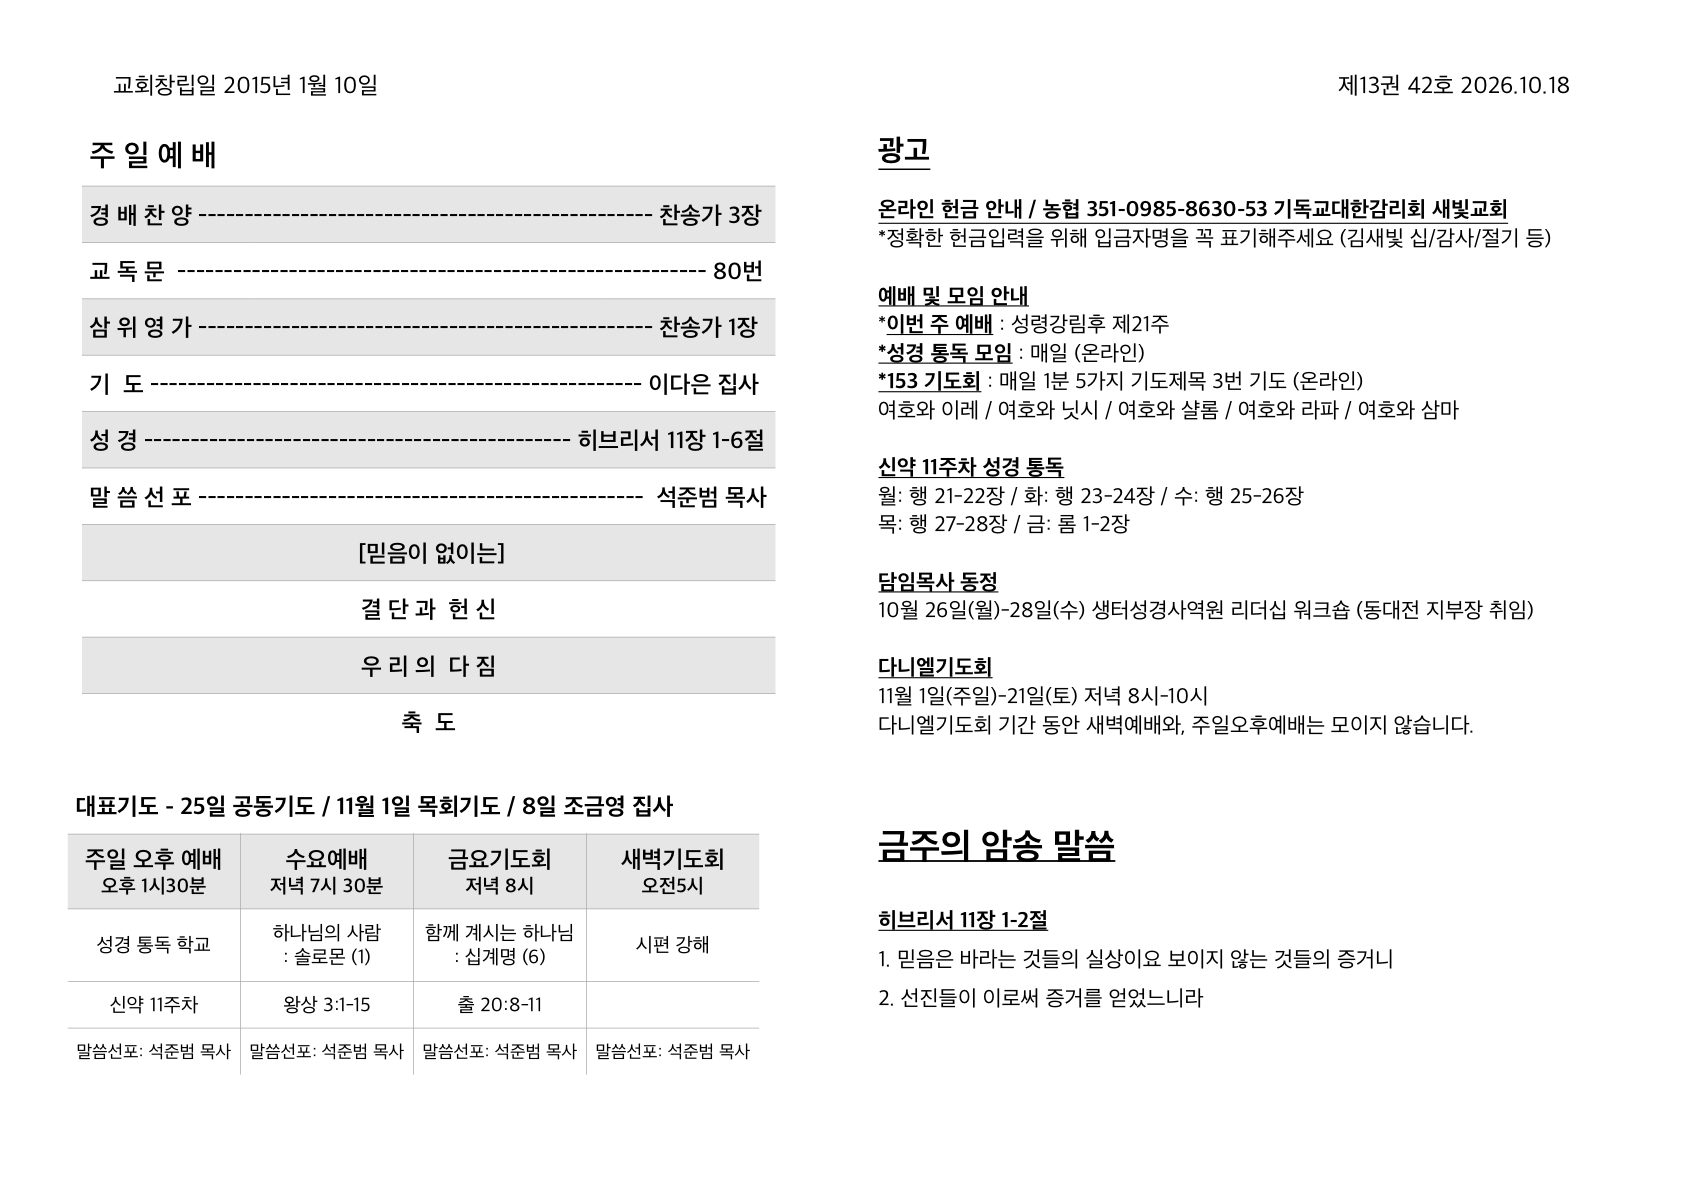
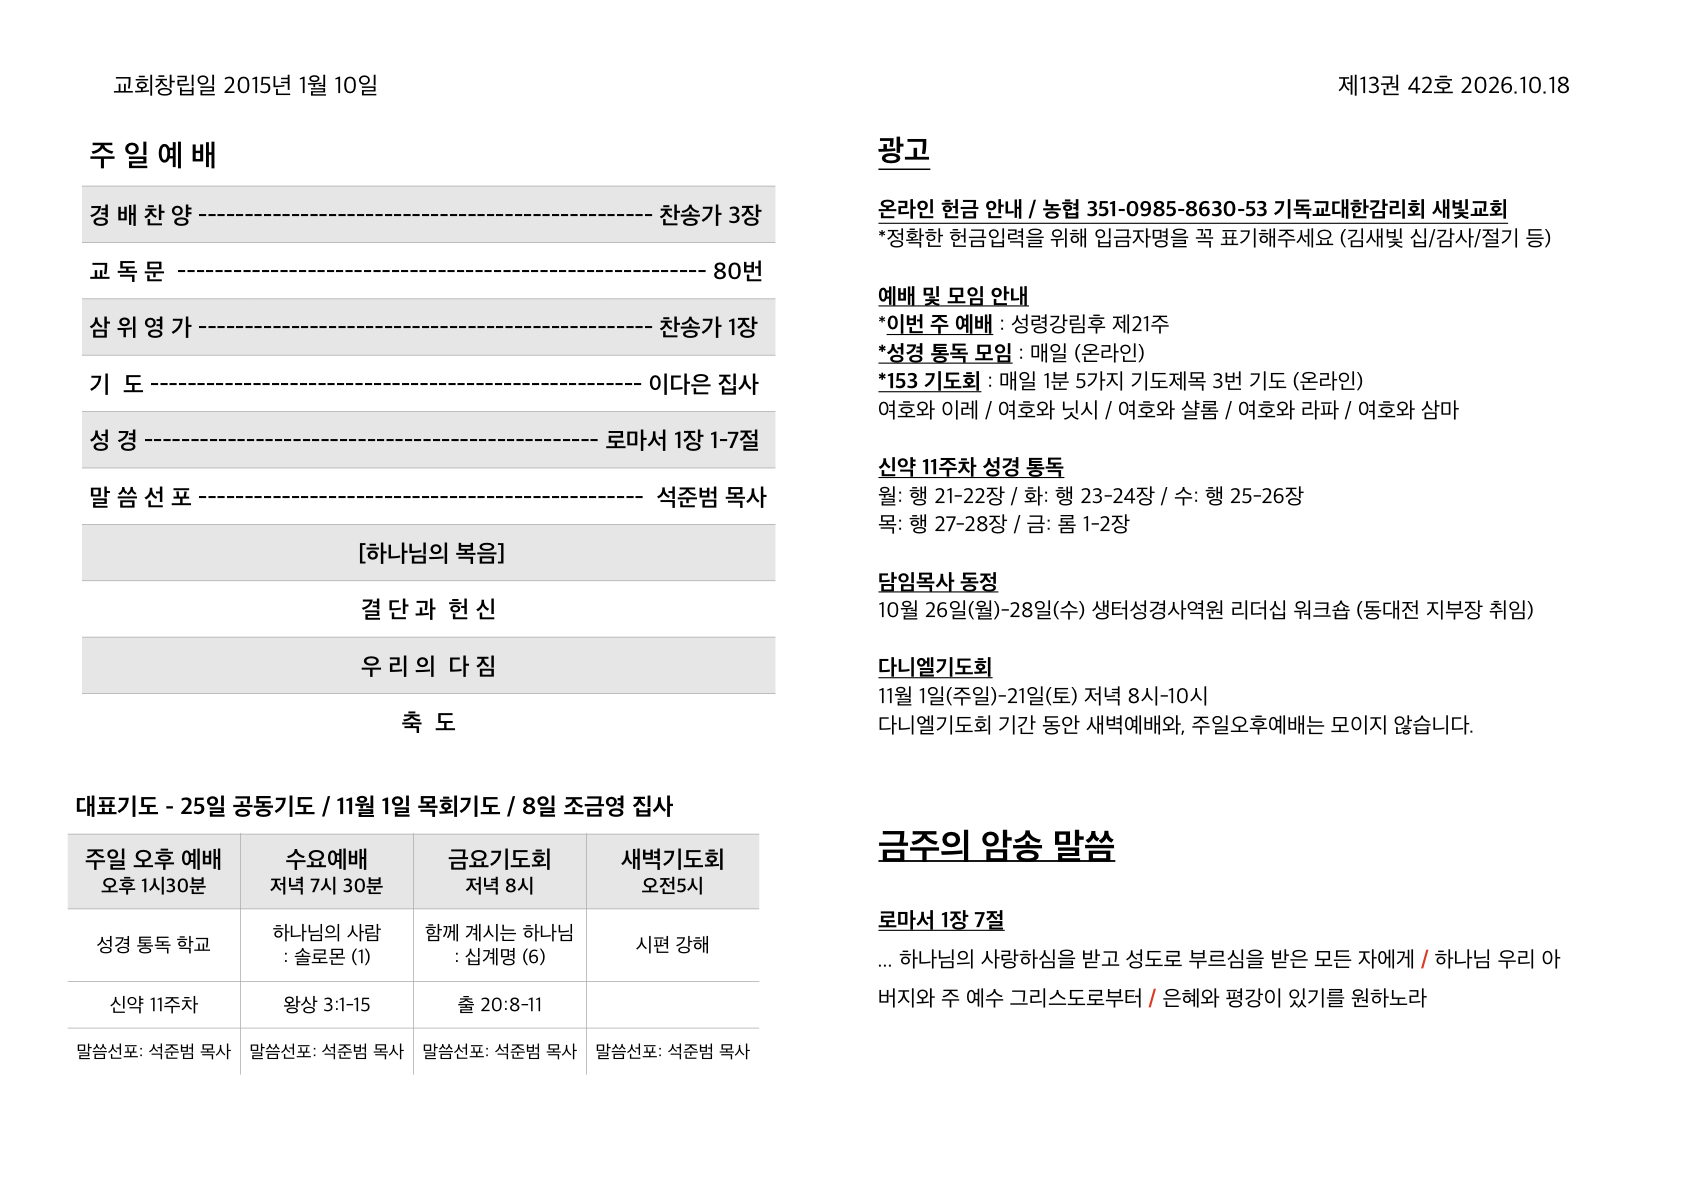
Correct Oct 18 bulletin sermon and images

diff --git a/bulletins/2026-10-18.html b/bulletins/2026-10-18.html
@@ -1,11 +1,11 @@
 <!doctype html><html lang="ko"><head><meta charset="UTF-8"><meta name="viewport" content="width=device-width,initial-scale=1,viewport-fit=cover"><meta name="theme-color" content="#16324F"><title>2026년 10월 18일 주보 | 새빛교회</title><style>:root{--n:#16324f;--i:#1f2937;--m:#64748b;--l:#e5e7eb;--s:#f7f4ee;--g:#c7a56a}*{box-sizing:border-box}body{margin:0;font-family:-apple-system,BlinkMacSystemFont,"Segoe UI","Noto Sans KR",Arial,sans-serif;color:var(--i);background:#f7f8fa;line-height:1.65}.wrap{width:min(920px,calc(100% - 28px));margin:auto}.top{background:var(--n);color:#fff;padding:18px 0}.row{display:flex;justify-content:space-between;gap:12px;align-items:center}.top a{color:#fff;text-decoration:none;font-weight:700}.hero{background:#fff;border-bottom:1px solid var(--l);padding:34px 0 28px}.eyebrow{font-size:12px;font-weight:800;color:var(--g);letter-spacing:.12em}.hero h1{font-size:clamp(30px,7vw,46px);margin:8px 0 6px}.meta{color:var(--m)}.card{background:#fff;border:1px solid var(--l);border-radius:18px;padding:22px;margin:16px 0}.card h2{margin:0 0 14px;font-size:22px;color:var(--n)}.sermon{background:linear-gradient(135deg,#16324f,#234e70);color:#fff}.sermon h2{color:#fff}.sermon strong{font-size:27px;display:block}.pill{display:inline-block;border-radius:999px;background:#eef3f5;color:var(--n);font-weight:800;padding:5px 9px;font-size:12px}.order{padding-left:20px}.order li{margin:7px 0}.notice{padding:12px 14px;border-radius:12px;background:var(--s);margin:10px 0}.schedule{width:100%;border-collapse:collapse}.schedule th,.schedule td{border:1px solid var(--l);padding:10px;text-align:left}.schedule th{background:#f2f4f6}.memory{border-left:4px solid var(--g);padding:14px 16px;background:#fffdf7;border-radius:10px}.pages{display:grid;gap:14px}.pages img{display:block;width:100%;height:auto;border-radius:12px;border:1px solid var(--l)}.actions{display:flex;gap:10px;flex-wrap:wrap;margin-top:18px}.btn{display:inline-block;padding:11px 15px;border-radius:12px;text-decoration:none;font-weight:800}.primary{background:var(--n);color:#fff}.light{background:#eef2f7;color:var(--n)}.footer{padding:36px 0 50px;color:var(--m);font-size:14px}@media(max-width:700px){.card{padding:18px}.row{align-items:flex-start;flex-direction:column}.schedule{font-size:14px}}</style></head><body>
 <header class="top"><div class="wrap row"><a href="../index.html">✝ 새빛교회</a><div><a href="index.html">주보 게시판</a> · <a href="../bible-reading/index.html">성경통독</a></div></div></header>
 <section class="hero"><div class="wrap"><div class="eyebrow">WEEKLY BULLETIN · 제13권 42호</div><h1>2026년 10월 18일 주보</h1><div class="meta">성령강림후 제21주 · 교회창립일 2015년 1월 10일</div></div></section><main class="wrap">
-<section class="card sermon"><span class="pill">오늘의 말씀</span><h2>주일 설교</h2><strong>믿음이 없이는</strong><p>히브리서 11장 1–6절 · 말씀선포 석준범 목사</p></section>
-<section class="card"><h2>주일예배 순서</h2><ol class="order"><li>경배찬양 — 찬송가 3장</li><li>교독문 — 80번</li><li>삼위영가 — 찬송가 1장</li><li>기도 — 이다은 집사</li><li>성경 — 히브리서 11장 1–6절</li><li>말씀 선포 — 석준범 목사, 「믿음이 없이는」</li><li>결단과 헌신</li><li>우리의 다짐</li><li>축도</li></ol></section>
-<section class="card"><h2>광고 및 교회소식</h2><div class="notice"><strong>온라인 헌금 안내</strong><br>자세한 내용은 아래 주보 원본을 확인해 주세요.</div><div class="notice"><strong>예배 및 모임 안내</strong><br>이번 주 예배: 성령강림후 제21주<br>성경 통독 모임: 매일(온라인)<br>153 기도회: 매일 1분, 5가지 기도제목을 3번 기도(온라인)</div><div class="notice"><strong>담임목사 동정</strong><br>10월 26일(월)–28일(수) 생터성경사역원 리더십 워크숍(동대전 지부장 취임)</div><div class="notice"><strong>다니엘기도회</strong><br>11월 1일(주일)–21일(토) 저녁 8시–10시<br>기간 동안 새벽예배와 주일오후예배는 모이지 않습니다.</div><div class="notice"><strong>행사 안내</strong><br>10월 17일(토) 대전중앙지방 여선교회 계삭회<br>10월 24일(토) 대전중앙지방 평신도 국내성지순례</div></section>
+<section class="card sermon"><span class="pill">오늘의 말씀</span><h2>주일 설교</h2><strong>하나님의 복음</strong><p>로마서 1장 1–7절 · 말씀선포 석준범 목사</p></section>
+<section class="card"><h2>주일예배 순서</h2><ol class="order"><li>경배찬양 — 찬송가 3장</li><li>교독문 — 80번</li><li>삼위영가 — 찬송가 1장</li><li>기도 — 이다은 집사</li><li>성경 — 로마서 1장 1–7절</li><li>말씀 선포 — 석준범 목사, 「하나님의 복음」</li><li>결단과 헌신</li><li>우리의 다짐</li><li>축도</li></ol></section>
+<section class="card"><h2>광고 및 교회소식</h2><div class="notice"><strong>온라인 헌금 안내</strong><br>농협 351-0985-8630-53 기독교대한감리회 새빛교회<br><small>정확한 헌금입력을 위해 입금자명을 꼭 표기해주세요. 예: 김새빛 십/감사/절기 등</small></div><div class="notice"><strong>예배 및 모임 안내</strong><br>이번 주 예배: 성령강림후 제21주<br>성경 통독 모임: 매일(온라인)<br>153 기도회: 매일 1분, 5가지 기도제목을 3번 기도(온라인)</div><div class="notice"><strong>담임목사 동정</strong><br>10월 26일(월)–28일(수) 생터성경사역원 리더십 워크숍(동대전 지부장 취임)</div><div class="notice"><strong>다니엘기도회</strong><br>11월 1일(주일)–21일(토) 저녁 8시–10시<br>기간 동안 새벽예배와 주일오후예배는 모이지 않습니다.</div><div class="notice"><strong>행사 안내</strong><br>10월 17일(토) 대전중앙지방 여선교회 계삭회<br>10월 24일(토) 대전중앙지방 평신도 국내성지순례</div></section>
 <section class="card"><h2>신약 11주차 성경 통독</h2><table class="schedule"><tr><th>월</th><td>사도행전 21–22장</td></tr><tr><th>화</th><td>사도행전 23–24장</td></tr><tr><th>수</th><td>사도행전 25–26장</td></tr><tr><th>목</th><td>사도행전 27–28장</td></tr><tr><th>금</th><td>로마서 1–2장</td></tr></table><div class="actions"><a class="btn primary" href="../bible-reading/new-testament-week11.html">신약 11주차 통독 자료 보기</a></div></section>
-<section class="card"><h2>금주의 암송 말씀</h2><div class="memory"><strong>히브리서 11장 1–2절</strong><p>1. 믿음은 바라는 것들의 실상이요 보이지 않는 것들의 증거니</p><p>2. 선진들이 이로써 증거를 얻었느니라</p></div></section>
+<section class="card"><h2>금주의 암송 말씀</h2><div class="memory"><strong>로마서 1장 7절</strong><p>하나님의 사랑하심을 받고 성도로 부르심을 받은 모든 자에게 하나님 우리 아버지와 주 예수 그리스도로부터 은혜와 평강이 있기를 원하노라</p></div></section>
 <section class="card"><h2>예배 및 대표기도 안내</h2><p>대표기도 · 25일 공동기도 / 11월 1일 목회기도 / 8일 조금영 집사</p><table class="schedule"><tr><th>예배</th><th>시간</th><th>말씀</th></tr><tr><td>주일 오후 예배</td><td>오후 1시 30분</td><td>성경 통독 학교 · 신약 11주차</td></tr><tr><td>수요예배</td><td>저녁 7시 30분</td><td>하나님의 사람: 솔로몬 (1) · 왕상 3:1–15</td></tr><tr><td>금요기도회</td><td>저녁 8시</td><td>함께 계시는 하나님: 십계명 (6) · 출 20:8–11</td></tr><tr><td>새벽기도회</td><td>오전 5시</td><td>시편 강해 · 월요일과 토요일은 모이지 않습니다</td></tr></table></section>
 <section class="card"><h2>주보 원본 보기</h2><div class="pages"><a href="../assets/bulletin-2026-10-18-p1.jpg"><img src="../assets/bulletin-2026-10-18-p1.jpg" alt="2026년 10월 18일 주보 1면"></a><a href="../assets/bulletin-2026-10-18-p2.jpg"><img src="../assets/bulletin-2026-10-18-p2.jpg" alt="2026년 10월 18일 주보 2면"></a></div></section>
 <div class="actions"><a class="btn light" href="index.html">← 주보 목록</a><a class="btn light" href="../index.html">교회 홈</a></div></main><footer class="footer"><div class="wrap">기독교대한감리회 새빛교회 · 대전광역시 중구 평촌로 112</div></footer></body></html>

diff --git a/bulletins/index.html b/bulletins/index.html
@@ -169,8 +169,8 @@
         ><span class="badge">최신 주보</span
         ><time>2026년 10월 18일 주일 · 제13권 42호</time>
         <h2>2026년 10월 18일 주보</h2>
-        <p class="meta"><strong>설교</strong> · 믿음이 없이는</p>
-        <p class="meta"><strong>본문</strong> · 히브리서 11장 1–6절</p>
+        <p class="meta"><strong>설교</strong> · 하나님의 복음</p>
+        <p class="meta"><strong>본문</strong> · 로마서 1장 1–7절</p>
         <span class="btn">주보 자세히 보기 →</span></a
       >
       <section class="archive">

diff --git a/index.html b/index.html
@@ -105,7 +105,7 @@
               <span class="badge">최신 주보</span>
               <h3>2026년 10월 18일 주보</h3>
               <p>2026년 10월 18일 주일</p>
-              <p>말씀: 믿음이 없이는 · 히브리서 11장 1–6절</p>
+              <p>말씀: 하나님의 복음 · 로마서 1장 1–7절</p>
             </div>
             <a
               class="btn"

diff --git a/sw.js b/sw.js
@@ -1,4 +1,4 @@
-const CACHE = "saebit-church-v10";
+const CACHE = "saebit-church-v11";
 const ASSETS = [
   "./",
   "./index.html",
